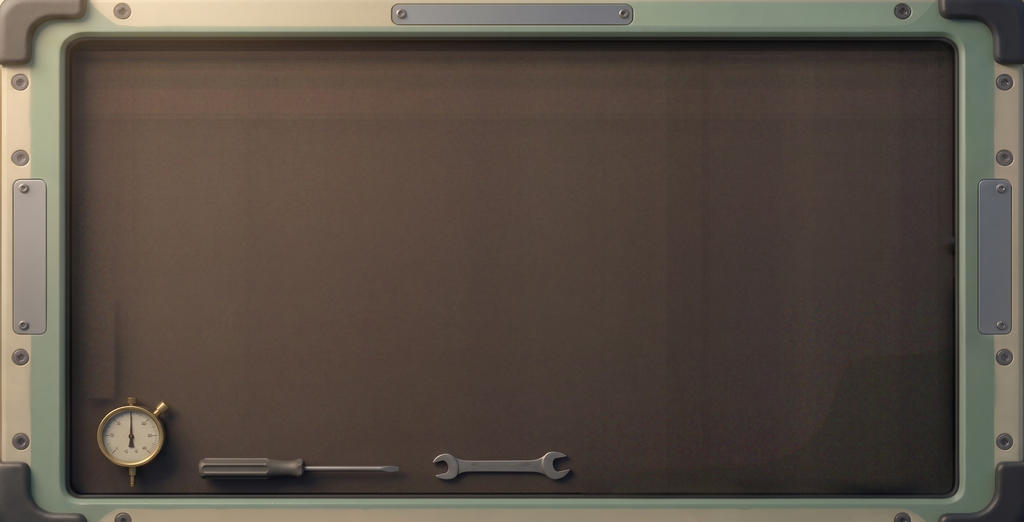
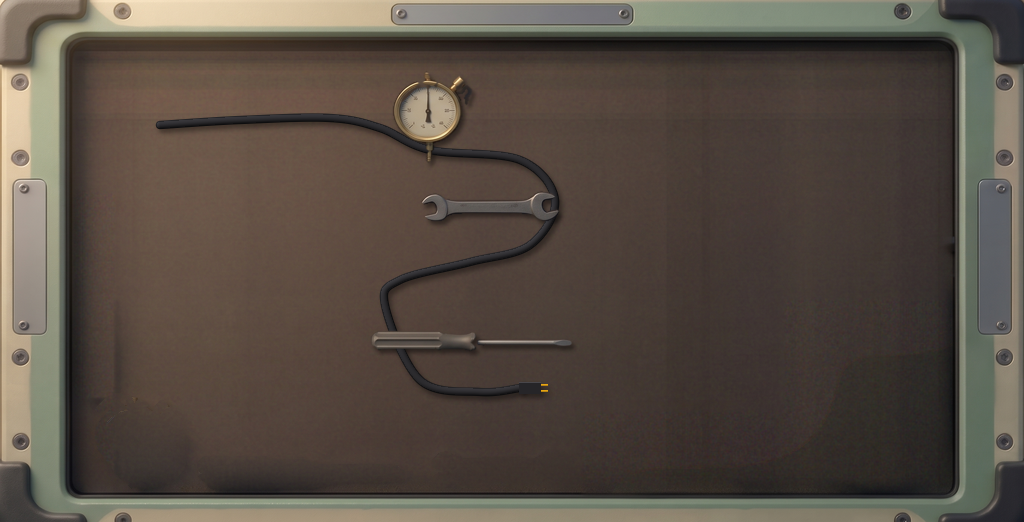
Pods masters: PA2, the Probe stage recut, the tools moved into the tools zone with their shadows and the dock's cable to the cradle

Changed region(s): [[0.3438, 0.3372, 0.5625, 0.7663], [0.0938, 0.7663, 0.5625, 0.9502], [0.1562, 0.1533, 0.5312, 0.3372]]

diff --git a/art/station-masters/pods/bench/stage-pa2/compose-zone.py b/art/station-masters/pods/bench/stage-pa2/compose-zone.py
@@ -1,0 +1,87 @@
+"""PA2 step 2: the tools laid in the tools zone (screen 368, 96, 208 x 352 = slice x 368-575, y 56-407), with the dock's cable.
+- gauge, wrench, screwdriver: the lifted painted objects, placed 1:1 (no rescale, no rotation), each with a contact shadow drawn
+  from its own alpha: offset (+3, +4) (light from the top left), blurred 2 px, the floor multiplied by 0.55 at the core.
+- the dock cable: a dark rubber cable (radius 4 px, lambert-shaded from the top left on its round section, a 1 px darker rim), its
+  own shadow (+3, +4, blur 2.5, x0.6); from under the cradle's back plate (screen 200, 165) to the zone, a loose slack S through the
+  zone between the tools, ending in a plug lying on the floor (a dark rubber block 22 x 12 with two brass pins).
+- then the zone is checked: no empty square of 96 x 96 or more (alpha < 20 of everything laid), every piece inside the zone except
+  the cable's run to the cradle.
+usage: python3 -I compose-zone.py CLEAN.png TOOLS_DIR OUT.png"""
+import sys, os, numpy as np
+from PIL import Image
+from scipy import ndimage as nd
+clean, td, out = sys.argv[1:4]
+st = np.asarray(Image.open(clean).convert('RGB')).astype(float); H, W = st.shape[:2]
+ZX0, ZY0, ZX1, ZY1 = 368, 56, 576, 408
+PL = {'gauge': (392, 70), 'wrench': (420, 190), 'screwdriver': (370, 330)}       # slice top-lefts
+layers = []                                                                      # (rgb, alpha) full-size
+for n, (x, y) in PL.items():
+    t = np.asarray(Image.open(os.path.join(td, f'tool-{n}.png'))).astype(float); h, w = t.shape[:2]
+    rgb = np.zeros((H, W, 3)); al = np.zeros((H, W)); rgb[y:y + h, x:x + w] = t[..., :3]; al[y:y + h, x:x + w] = t[..., 3] / 255
+    layers.append((n, rgb, al))
+# the cable path (slice coords): Catmull-Rom through these points
+P = np.array([(160, 125), (240, 120), (330, 118), (380, 128), (430, 150), (520, 160), (555, 200), (530, 245), (470, 262),
+              (400, 280), (385, 305), (420, 380), (480, 392), (520, 388)], float)
+def catmull(P, n=40):
+    pts = []
+    Q = np.vstack([P[0], P, P[-1]])
+    for i in range(1, len(Q) - 2):
+        p0, p1, p2, p3 = Q[i - 1], Q[i], Q[i + 1], Q[i + 2]
+        for t in np.linspace(0, 1, n, endpoint=False):
+            t2, t3 = t * t, t * t * t
+            pts.append(0.5 * ((2 * p1) + (-p0 + p2) * t + (2 * p0 - 5 * p1 + 4 * p2 - p3) * t2 + (-p0 + 3 * p1 - 3 * p2 + p3) * t3))
+    pts.append(P[-1]); return np.array(pts)
+C = catmull(P, 60); R = 4.2
+yy, xx = np.mgrid[0:H, 0:W]
+# distance to the polyline (on a sub-window for speed)
+dist = np.full((H, W), 99.0); along = np.zeros((H, W))
+X0, X1, Y0, Y1 = int(C[:, 0].min() - 10), int(C[:, 0].max() + 10), int(C[:, 1].min() - 10), int(C[:, 1].max() + 10)
+sx, sy = xx[Y0:Y1, X0:X1] + .5, yy[Y0:Y1, X0:X1] + .5
+dsub = np.full(sx.shape, 99.0); nx = np.zeros(sx.shape); ny = np.zeros(sx.shape)
+for a, b in zip(C[:-1], C[1:]):
+    ab = b - a; L2 = ab @ ab + 1e-9
+    t = np.clip(((sx - a[0]) * ab[0] + (sy - a[1]) * ab[1]) / L2, 0, 1)
+    px, py = a[0] + t * ab[0], a[1] + t * ab[1]; d = np.hypot(sx - px, sy - py)
+    m = d < dsub; dsub = np.where(m, d, dsub); nx = np.where(m, (sx - px), nx); ny = np.where(m, (sy - py), ny)
+dist[Y0:Y1, X0:X1] = dsub
+NX = np.zeros((H, W)); NY = np.zeros((H, W)); NX[Y0:Y1, X0:X1] = nx; NY[Y0:Y1, X0:X1] = ny
+cab_a = np.clip(R + 0.5 - dist, 0, 1)
+r = np.clip(dist / R, 0, 1); nz = np.sqrt(np.clip(1 - r * r, 0, 1))
+nxu = np.where(dist > 0, NX / np.maximum(dist, 1e-6), 0) * r; nyu = np.where(dist > 0, NY / np.maximum(dist, 1e-6), 0) * r
+Lv = np.array([-0.55, -0.62, 0.56]); Lv /= np.linalg.norm(Lv)
+lam = np.clip(nxu * Lv[0] + nyu * Lv[1] + nz * Lv[2], 0, 1)
+RUB = np.array([46, 45, 48.])
+cab_rgb = RUB[None, None] * (0.45 + 0.9 * lam[..., None])
+cab_rgb = np.where((dist > R - 1.0)[..., None], cab_rgb * 0.7, cab_rgb)
+# the plug at the cable's end
+ex, ey = C[-1]; plug = (np.abs(xx + .5 - (ex + 10)) <= 11) & (np.abs(yy + .5 - ey) <= 6)
+pl = np.zeros((H, W, 3)) + np.array([38, 37, 40.])
+pl[(yy == int(ey) - 6) & plug] = (72, 70, 74); pl[(yy == int(ey) + 6) & plug] = (24, 23, 26)
+pins = ((np.abs(yy + .5 - (ey - 3)) <= 1) | (np.abs(yy + .5 - (ey + 3)) <= 1)) & (xx + .5 > ex + 21) & (xx + .5 < ex + 28)
+BR = np.array([216, 155, 20.]) * 0.85
+layers.append(('cable', cab_rgb, cab_a))
+pa = plug.astype(float); layers.append(('plug', pl, pa)); pr = np.zeros((H, W, 3)) + BR; pr[(yy == np.floor(ey - 4)) | (yy == np.floor(ey + 2))] = BR * 1.25
+layers.append(('pins', pr, pins.astype(float)))
+# shadows first
+img = st.copy()
+for n, rgb, al in layers:
+    sh = nd.shift(al, (4, 3), order=1); sh = nd.gaussian_filter(sh, 2.5 if n in ('cable', 'plug', 'pins') else 2.0)
+    k = 0.6 if n in ('cable', 'plug', 'pins') else 0.55
+    img = img * (1 - (1 - k) * sh[..., None])
+order = [l for l in layers if l[0] in ('cable', 'plug', 'pins')] + [l for l in layers if l[0] not in ('cable', 'plug', 'pins')]
+for n, rgb, al in order:                                                         # the cable lies under the tools
+    img = img * (1 - al[..., None]) + rgb * al[..., None]
+Image.fromarray(np.clip(np.round(img), 0, 255).astype(np.uint8)).save(out)
+# the zone check
+occ = np.zeros((H, W), bool)
+for n, rgb, al in layers: occ |= al > 0.08
+z = ~occ[ZY0:ZY1, ZX0:ZX1]
+dp = np.zeros(z.shape, int)
+for i in range(z.shape[0]):
+    for j in range(z.shape[1]):
+        if z[i, j]: dp[i, j] = 1 + (min(dp[i - 1, j], dp[i, j - 1], dp[i - 1, j - 1]) if i and j else 0)
+best = dp.max(); i, j = np.unravel_index(dp.argmax(), dp.shape)
+print('largest empty square in the zone', best, 'at slice', (ZX0 + j - best + 1, ZY0 + i - best + 1))
+for n, rgb, al in layers:
+    if n in ('cable',): continue
+    ys, xs = np.where(al > 0.08); print(n, 'inside zone', xs.min() >= ZX0 and xs.max() < ZX1 and ys.min() >= ZY0 and ys.max() < ZY1)

diff --git a/art/station-masters/pods/bench/stage-pa2/lift-tools.py b/art/station-masters/pods/bench/stage-pa2/lift-tools.py
@@ -1,0 +1,52 @@
+"""PA2 step 1: the gauge, screwdriver and wrench lifted off room-bench-stage-probe (slice y = screen y - 40).
+The floor runs to slice row 491 (the dark lip 492-495, the rim from 496). The three tool boxes (the spec's screen boxes, grown 8 px,
+clamped to rows <= 491) are filled harmonically (Laplace, coarse to fine) from the real floor around them, low-passed: that is the
+floor's tone under the tools. A tool is every pixel deviating from that tone by more than 22 (mean) or 30 (any channel), opened,
+filled; its old painted shadow (pixels darker than the tone by 2+, near-neutral, within 16 px of the tool) is lifted too but not
+kept. The lifted area (tool + shadow, grown 2 px, feathered 1.2) is repainted as tone + the floor's own grain from 150 rows above
+(high-passed, clamped to 8). Writes stage-clean.png and tool-{gauge,screwdriver,wrench}.png (RGBA, the tool alone).
+usage: python3 -I lift-tools.py STAGE.png OUT_DIR"""
+import sys, os, numpy as np
+from PIL import Image
+from scipy import ndimage as nd
+src, out = sys.argv[1:3]; os.makedirs(out, exist_ok=True)
+st = np.asarray(Image.open(src).convert('RGB')).astype(float); H, W = st.shape[:2]
+FLOOR_LAST = 491
+TOOLS = {'gauge': (97, 441, 174, 526), 'screwdriver': (199, 498, 398, 526), 'wrench': (433, 491, 571, 522)}   # screen
+boxes = {}
+unknown = np.zeros((H, W), bool)
+for n, (x0, y0, x1, y1) in TOOLS.items():
+    b = (x0 - 8, y0 - 40 - 8, x1 + 12, min(y1 - 40 + 6, FLOOR_LAST + 1)); boxes[n] = b
+    unknown[b[1]:b[3], b[0]:b[2]] = True
+def harmonic(img, inside, iters):
+    t = img.copy()
+    for _ in range(iters):
+        avg = (np.roll(t, 1, 0) + np.roll(t, -1, 0) + np.roll(t, 1, 1) + np.roll(t, -1, 1)) / 4
+        t[inside] = avg[inside]
+    return t
+RY0, RY1, RX0, RX1 = 360, 496, 60, 640                                   # the working window
+lp = nd.gaussian_filter(st, (1.5, 1.5, 0))[RY0:RY1, RX0:RX1]; ins = unknown[RY0:RY1, RX0:RX1]
+small = np.stack([nd.zoom(lp[..., c], 0.25, order=1) for c in range(3)], -1); ins_s = nd.zoom(ins.astype(float), 0.25, order=0) > 0.5
+small = harmonic(np.where(ins_s[..., None], small.mean((0, 1)), small), ins_s, 4000)
+up = np.stack([nd.zoom(small[..., c], (lp.shape[0] / small.shape[0], lp.shape[1] / small.shape[1]), order=1) for c in range(3)], -1)
+tone = harmonic(np.where(ins[..., None], up, lp), ins, 600)
+TONE = st.copy(); TONE[RY0:RY1, RX0:RX1] = tone
+gs = np.roll(st, 150, axis=0); grain = np.clip(gs - nd.gaussian_filter(gs, (4, 4, 0)), -8, 8)
+clean = st.copy()
+for n, (X0, Y0, X1, Y1) in boxes.items():
+    sub = st[Y0:Y1, X0:X1]; tn = TONE[Y0:Y1, X0:X1]
+    dev = np.abs(sub - tn)
+    obj = (dev.mean(-1) > 22) | (dev.max(-1) > 30)
+    obj = nd.binary_fill_holes(nd.binary_closing(nd.binary_opening(obj, iterations=1), iterations=2))
+    neutral = np.abs(sub - sub.mean(-1, keepdims=True)).max(-1) < 12
+    shadow = nd.binary_dilation(obj, iterations=16) & ((tn.mean(-1) - sub.mean(-1)) > 2) & neutral
+    tool = obj & ~(shadow & (sub.mean(-1) < 40))
+    lab, k = nd.label(tool); sz = nd.sum(tool, lab, range(1, k + 1)); tool = np.isin(lab, [i + 1 for i, v in enumerate(sz) if v >= 30])
+    rm = nd.binary_dilation(obj | shadow, iterations=2)
+    w = nd.gaussian_filter(rm.astype(float), 1.2); w = np.where(rm, 1.0, w)
+    clean[Y0:Y1, X0:X1] = sub * (1 - w[..., None]) + (tn + grain[Y0:Y1, X0:X1]) * w[..., None]
+    a = np.where(tool, 255.0, nd.gaussian_filter(nd.binary_dilation(tool, iterations=1).astype(float), 0.6) * 255)
+    ys, xs = np.where(a > 8); cut = np.dstack([sub, a])[ys.min():ys.max() + 1, xs.min():xs.max() + 1]
+    Image.fromarray(np.clip(np.round(cut), 0, 255).astype(np.uint8), 'RGBA').save(os.path.join(out, f'tool-{n}.png'))
+    print(n, 'cut', cut.shape[1], 'x', cut.shape[0])
+Image.fromarray(np.clip(np.round(clean), 0, 255).astype(np.uint8)).save(os.path.join(out, 'stage-clean.png'))

diff --git a/art/station-masters/pods/bench/stage-pa2/README.md b/art/station-masters/pods/bench/stage-pa2/README.md
@@ -1,0 +1,10 @@
+# PA2: the Probe stage recut for the upright cradle (AD, 10-15, 0 MXN)
+
+`room-bench-stage-probe` keeps its id and size (1024 × 522, at screen (0, 40)).
+
+1. `lift-tools.py` takes the gauge, the screwdriver and the wrench off the floor. The floor under them is repainted with a harmonic tone from the floor around them plus its own grain, clamped to the floor's rows (≤ 491), so the lip and rim are untouched. Their old painted shadows go with them.
+2. `compose-zone.py` lays the same painted objects, 1:1 and not rescaled, in the tools zone (screen 368, 96, 208 × 352). Each gets a contact shadow from its own alpha (+3, +4, blur 2).
+   - The dock's cable runs from under the cradle's back plate through the zone, under the tools, to a plug with brass pins on the floor.
+   - Check: the largest empty square in the zone is 94 (< 96). Every tool, the plug and the pins are inside the zone.
+
+Proofs: `proof/mock-bench-{t1,away}-1x.png`, today's page-bench with the new stage, the cradle at (40, 96) and the column and strip as captured.
